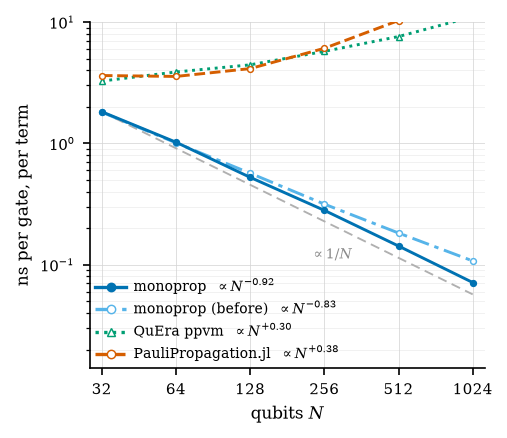
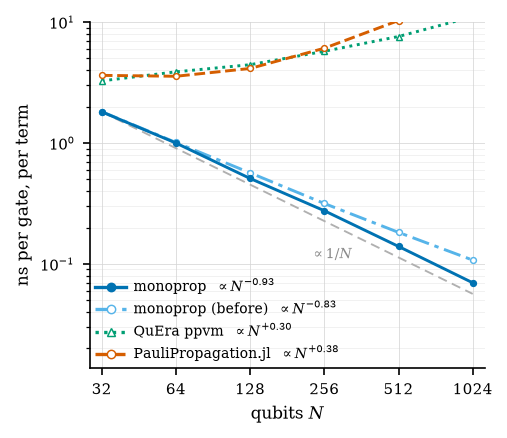
feat(paper_plots): 📊 redraw Fig. 6 on the final positions-emit engine
Remeasures both monoprop series on one node (cnx002, alternating build per N, 10 rounds each):
the engine branch's final commit 664f84c0 against main 508b536e. The ppvm and
PauliPropagation.jl rows are unchanged.

monoprop now falls as N^-0.93 over N <= 512 (was N^-0.92 on 74cde4aa; main N^-0.83). It sits
1.24x above the 1/N guide at N=1024 (main 1.90x), with successive points at N^-0.98 and N^-1.00
from N=256 up. It is 1.54x faster than main at N=1024 and 1.00x at N=32.

Assisted-by: claude-code:claude-opus-5-5

diff --git a/paper_plots/README.md b/paper_plots/README.md
@@ -332,13 +332,13 @@ what the `1/N` guide is for: the eye reads monoprop against the guide, never aga
 frame, so the claim survives the reshaping.
 
 > **The default build now draws the Deucalion sweep** (`data/*_octave_l7_deucalion.jsonl`,
-> monoprop 0.9.3.dev6+g74cde4aa5 against the "before" build 508b536e). Its numbers: monoprop
-> `N^-0.92` over N ≤ 512 (1.822 → 0.0713 ns from N=32 to N=1024, 25.5×), `N^-0.94` over every
+> monoprop 0.9.3.dev5+g664f84c00 against the "before" build 508b536e). Its numbers: monoprop
+> `N^-0.93` over N ≤ 512 (1.810 → 0.0699 ns from N=32 to N=1024, 25.9×), `N^-0.94` over every
 > point, and successive points at `N^-0.98` and `N^-1.00` from N=256 up; the "before" build
 > `N^-0.83`; ppvm `N^+0.30`, PauliPropagation.jl `N^+0.38`. monoprop leads ppvm by 1.8× at
-> N=32, 53× at N=512 and 155× at N=1024, and PauliPropagation.jl by 2.0× and 72×. At N=1024
-> monoprop sits 1.25× above the `1/N` guide through its N=32 point (the "before" build 1.90×),
-> and the new build is 1.51× faster than 508b536e there (0.99× at N=32 and N=64, 1.08× at
+> N=32, 54× at N=512 and 158× at N=1024, and PauliPropagation.jl by 2.0× and 74×. At N=1024
+> monoprop sits 1.24× above the `1/N` guide through its N=32 point (the "before" build 1.90×),
+> and the new build is 1.54× faster than 508b536e there (1.00× at N=32, 1.01× at N=64, 1.11× at
 > N=128). **The paragraphs below are the AWS sweep's** (`data/*_octave_l7.jsonl`, monoprop
 > a86984a9f), kept for the record.
 
@@ -417,7 +417,7 @@ what `/proc/cpuinfo` reports on Deucalion's login nodes, whose `-march=native` r
 same `znver2` as the compute nodes'. The ppvm and PauliPropagation.jl environments are
 `caches/fig6/{ppvm-venv,julia-1.10.12,julia-depot}` under the project root; ppvm is
 `0.1.0+git.2570637b1459`. Points per engine: monoprop 6 and 6 (both builds in one job on
-cnx007, alternating build per N; 10 rounds each, N=1024 taking 263 s for the new build and 394 s
+cnx002, alternating build per N; 10 rounds each, N=1024 taking 257 s for the new build and 395 s
 for 508b536e), ppvm 6 (cnx008, N=1024 in 4037 s), PauliPropagation.jl 5 (cnx001, N=512 in 932 s;
 N=1024 hit its 1800 s ceiling and is absent, as on AWS).
 
